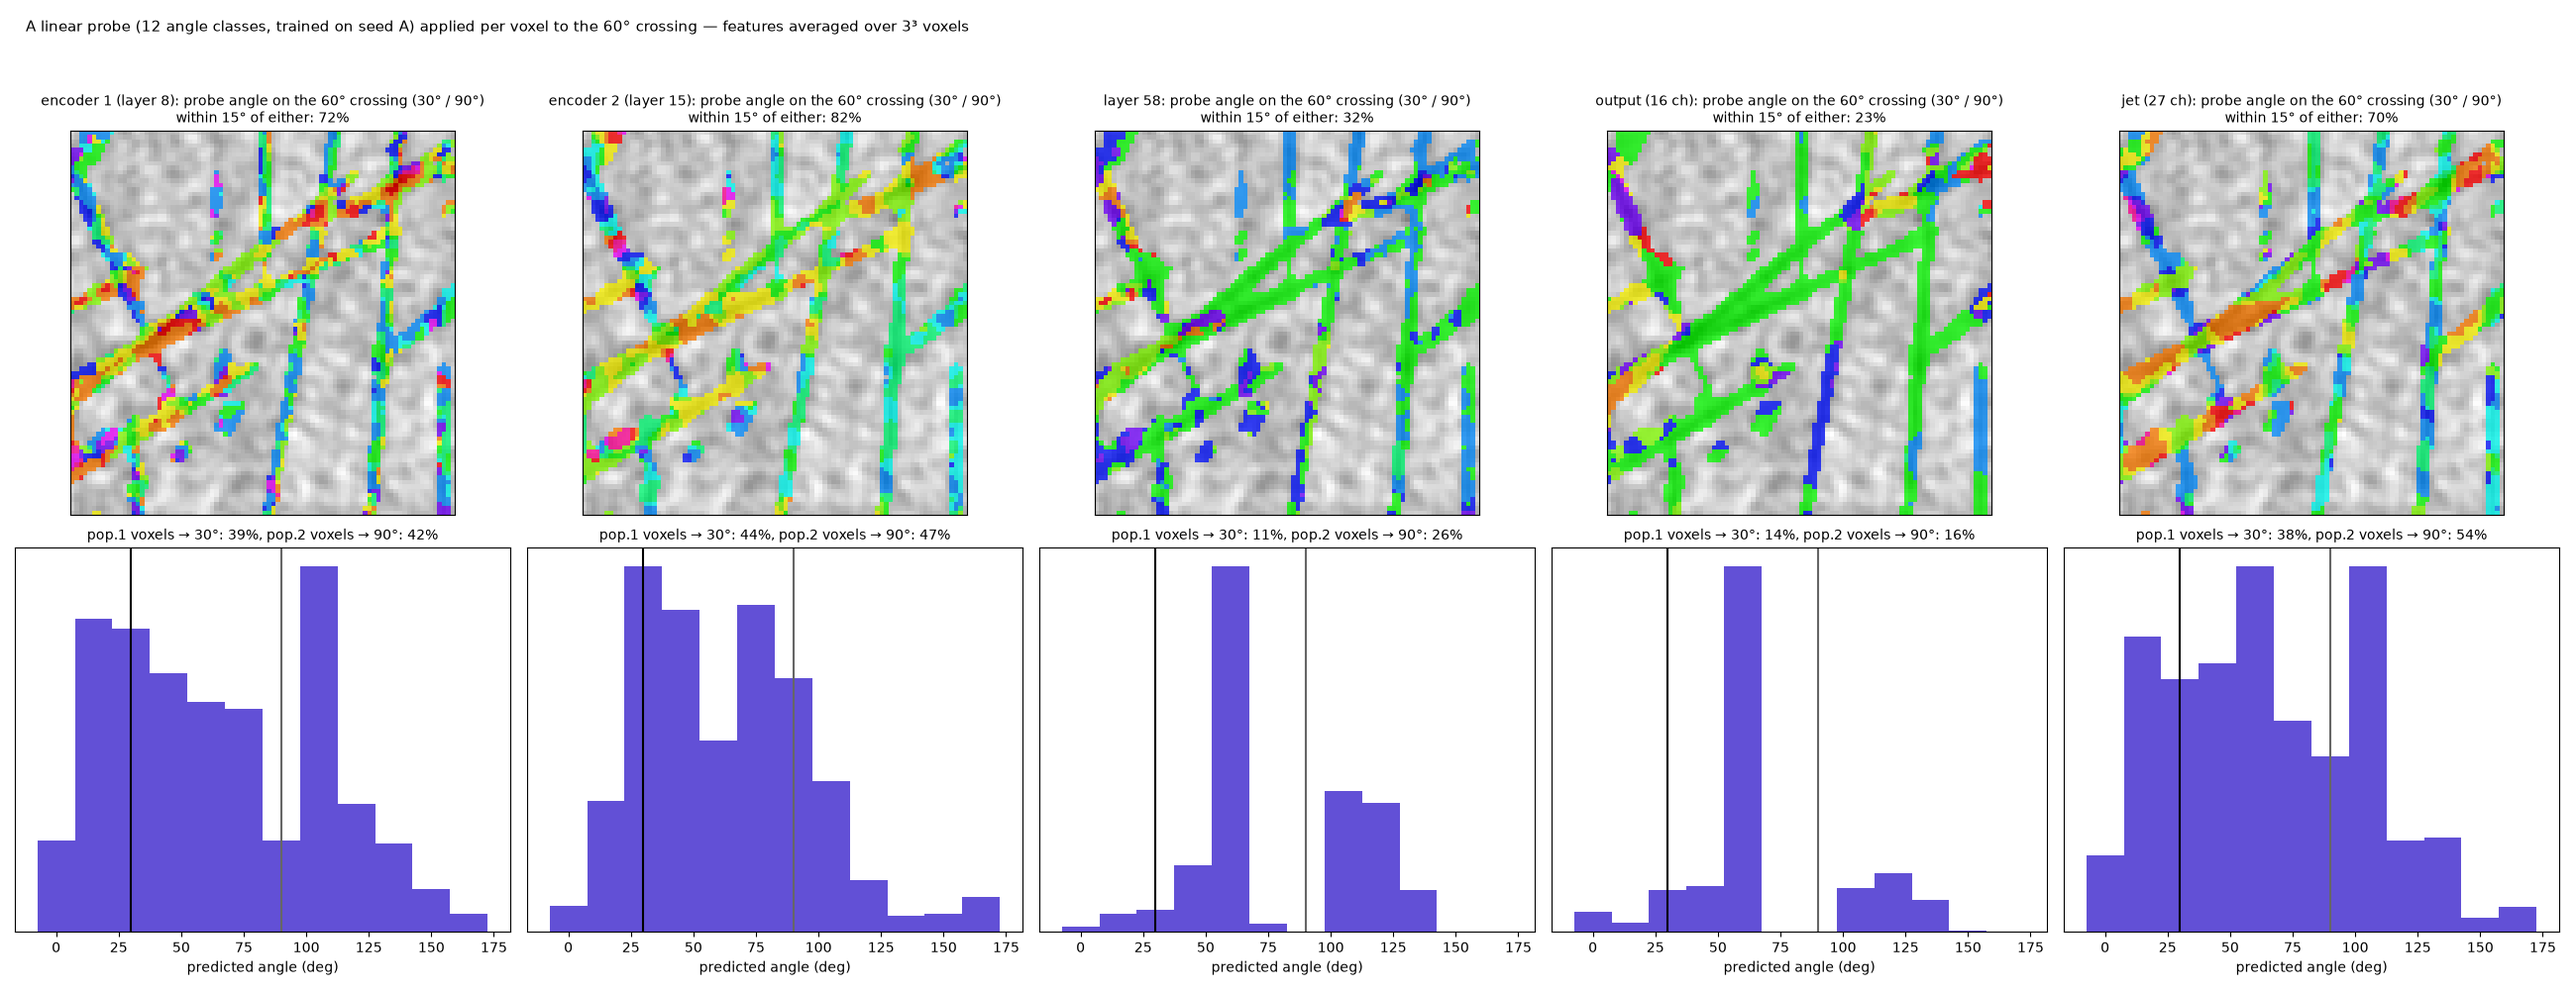
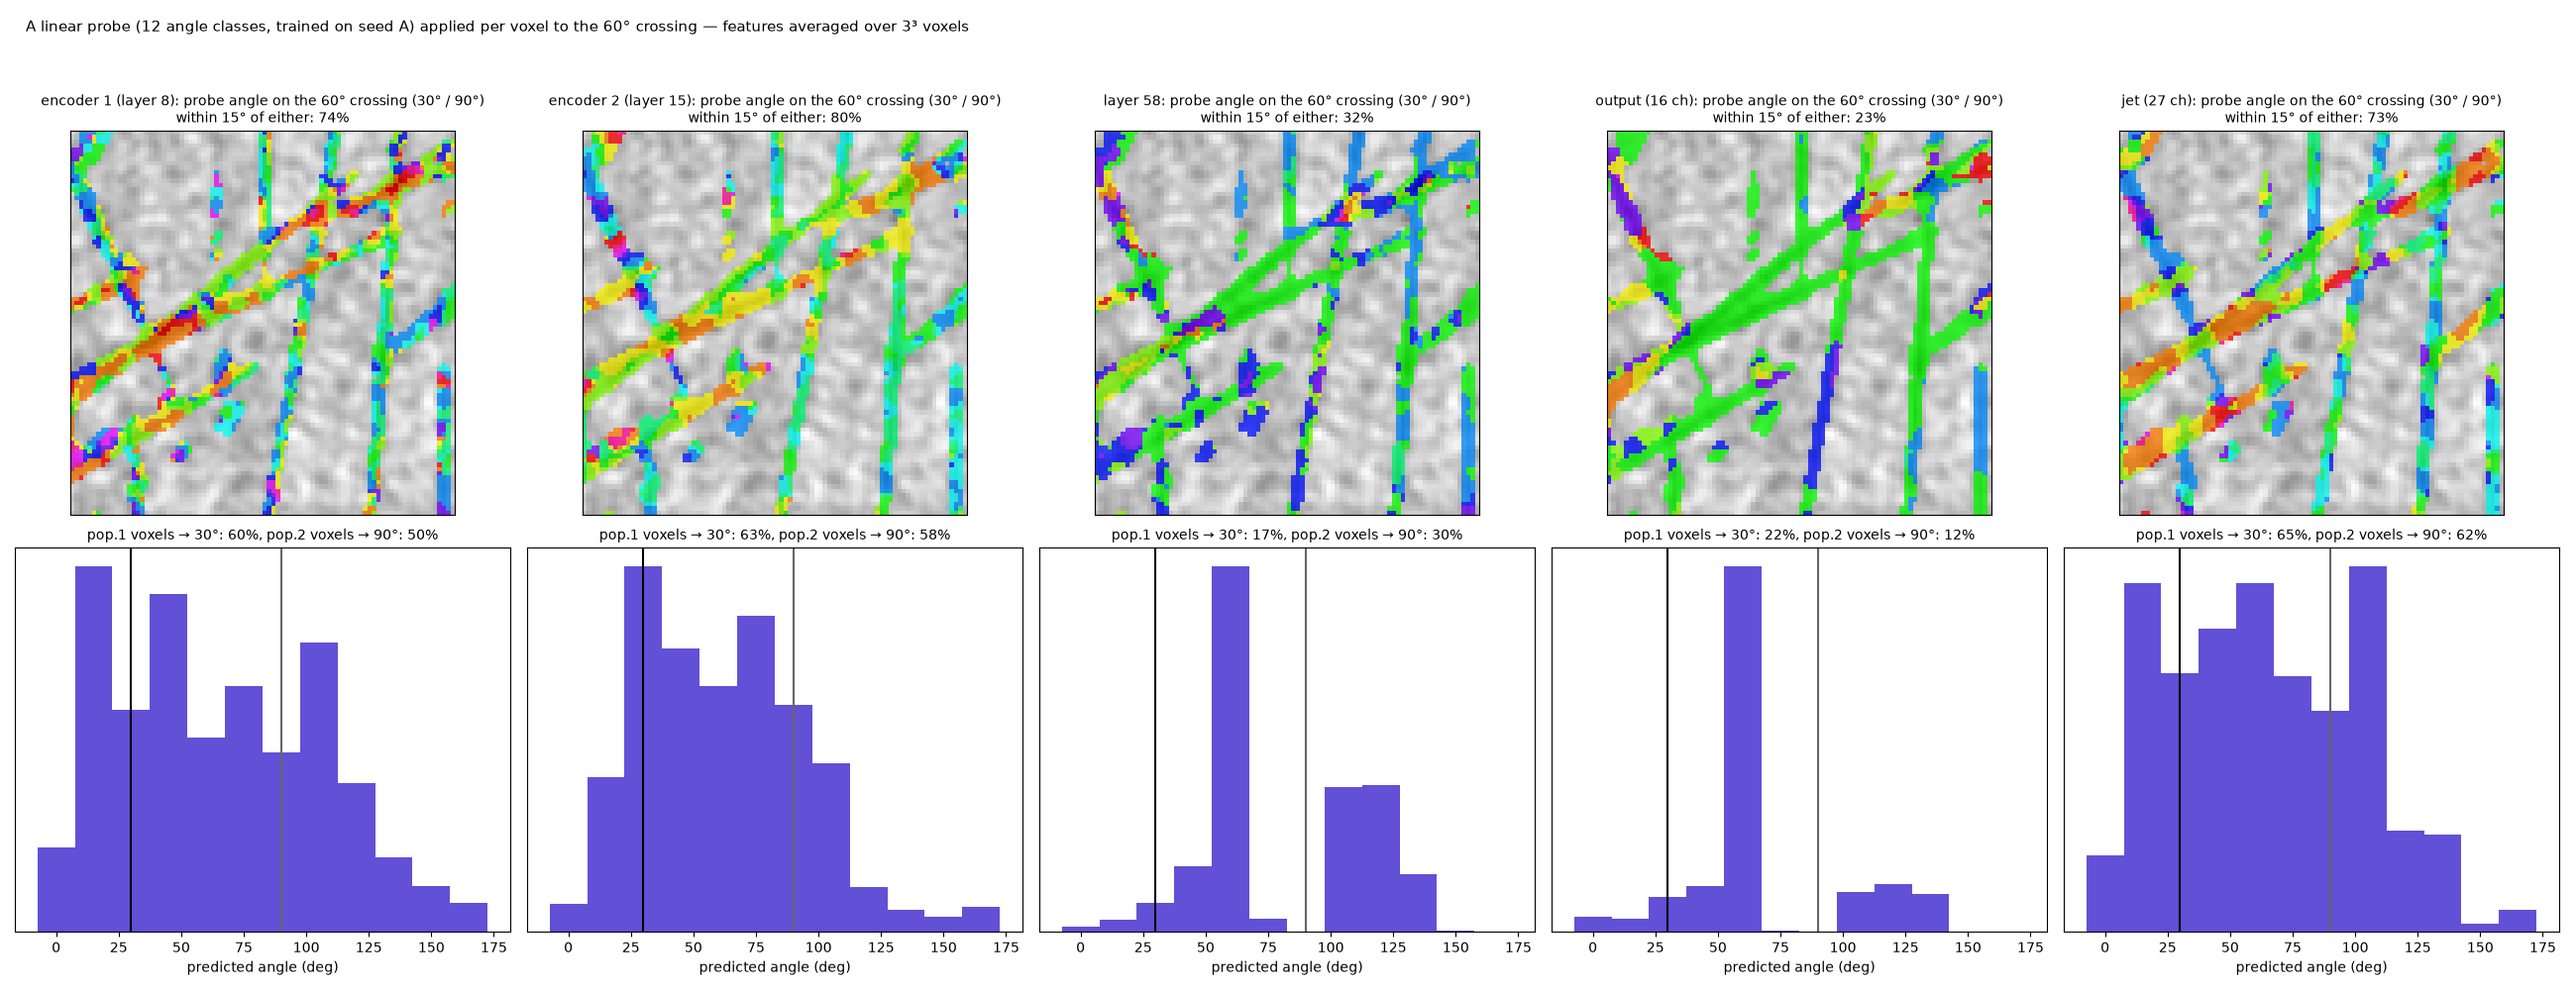
Feature-space study re-scored with the corrected population-2 mask (per-population assignment 63/58% in encoder 2)

diff --git a/docs/TCA_FIELD_RESULTS.md b/docs/TCA_FIELD_RESULTS.md
@@ -524,11 +524,11 @@ the crossings.
 
 | shape space | probe ±15° | silhouette | tuning depth (median; channels > 0.3) | 60° crossing: within 15° of either truth | pop-1 voxels → 30° / pop-2 → 90° | 90° crossing: either / pop-1 / pop-2 |
 |---|---|---|---|---|---|---|
-| encoder 1 (layer 8, 16 ch) | 51% | −0.05 | 0.33; 10 / 16 | 72% | 39 / 42% | 55% / 37 / 28% |
-| **encoder 2 (layer 15, 32 ch)** | **82%** | −0.06 | **0.80; 29 / 32** | **82%** | **44 / 47%** | 74% / 47 / 62% |
-| layer 58 (48 ch) | 75% | −0.03 | 0.56; 38 / 48 | 32% | 11 / 26% | 59% / 29 / 40% |
-| output (16 ch) | 67% | −0.04 | 0.35; 11 / 16 | 23% | 14 / 16% | 48% / 13 / 55% |
-| jet (27 ch, no network) | 64% | −0.02 | 0.09; 0 / 27 | 70% | 38 / 54% | 75% / 52 / 57% |
+| encoder 1 (layer 8, 16 ch) | 51% | −0.05 | 0.33; 10 / 16 | 74% | 60 / 50% | 58% / 47 / 41% |
+| **encoder 2 (layer 15, 32 ch)** | **82%** | −0.06 | **0.80; 29 / 32** | **80%** | **63 / 58%** | 72% / 55 / 66% |
+| layer 58 (48 ch) | 75% | −0.03 | 0.56; 38 / 48 | 32% | 17 / 30% | 60% / 35 / 47% |
+| output (16 ch) | 67% | −0.04 | 0.35; 11 / 16 | 23% | 22 / 12% | 48% / 14 / 58% |
+| jet (27 ch, no network) | 64% | −0.02 | 0.09; 0 / 27 | 73% | 65 / 62% | 75% / 54 / 73% |
 
 - **The space is organised by orientation as a continuum, not as clusters.** The deep layers' first two
   principal components run through the angles in order (a hue gradient across the cloud), and a linear readout of
@@ -537,8 +537,8 @@ the crossings.
   dimensions; k-means in the full space found texture phase (§7) for this reason.
 - **The division works per fascicle in the shallow, orientation-selective spaces and fails in the deep ones.** On
   the 60° crossing the encoder-2 probe colours each fascicle by its own orientation (two peaks at ~30° and ~75–90°;
-  82% of voxels within 15° of a truth; 44% / 47% of each population's voxels assigned to it within ±15°), and the
-  jet does nearly as well (70%); layer 58 and the output assign nearly every voxel to ~60°, the bisector — their
+  80% of voxels within 15° of a truth; 63% / 58% of each population's voxels assigned to it within ±15°), and the
+  jet does nearly as well (73%; 65 / 62%); layer 58 and the output assign nearly every voxel to ~60°, the bisector — their
   receptive fields average the two populations before anything can separate them.
 - So the separation stage has to run at the **fascicle scale** (a few voxels) in **encoder block 2** (or the
   jet), before the ρ-window integration; the deep features are the wrong space for it, independently of the

diff --git a/docs/pipeline/separating.md b/docs/pipeline/separating.md
@@ -36,11 +36,11 @@ another, and the same readout applied per voxel to a 60° crossing:
 
 | shape space | orientation readable per voxel (±15°) | 60° crossing: voxels within 15° of either truth | each population's voxels assigned to it |
 |---|---|---|---|
-| encoder 1 | 51% | 72% | 39 / 42% |
-| **encoder 2** | **82%** | **82%** | **44 / 47%** |
-| layer 58 (`anatomix48`) | 75% | 32% | 11 / 26% |
-| output (`anatomix16`) | 67% | 23% | 14 / 16% |
-| jet (no network) | 64% | 70% | 38 / 54% |
+| encoder 1 | 51% | 74% | 60 / 50% |
+| **encoder 2** | **82%** | **80%** | **63 / 58%** |
+| layer 58 (`anatomix48`) | 75% | 32% | 17 / 30% |
+| output (`anatomix16`) | 67% | 23% | 22 / 12% |
+| jet (no network) | 64% | 73% | 65 / 62% |
 
 ![the shape space by orientation](../img/feature_space_embedding.png)
 ![the readout per voxel on the crossing](../img/feature_space_crossing.png)
